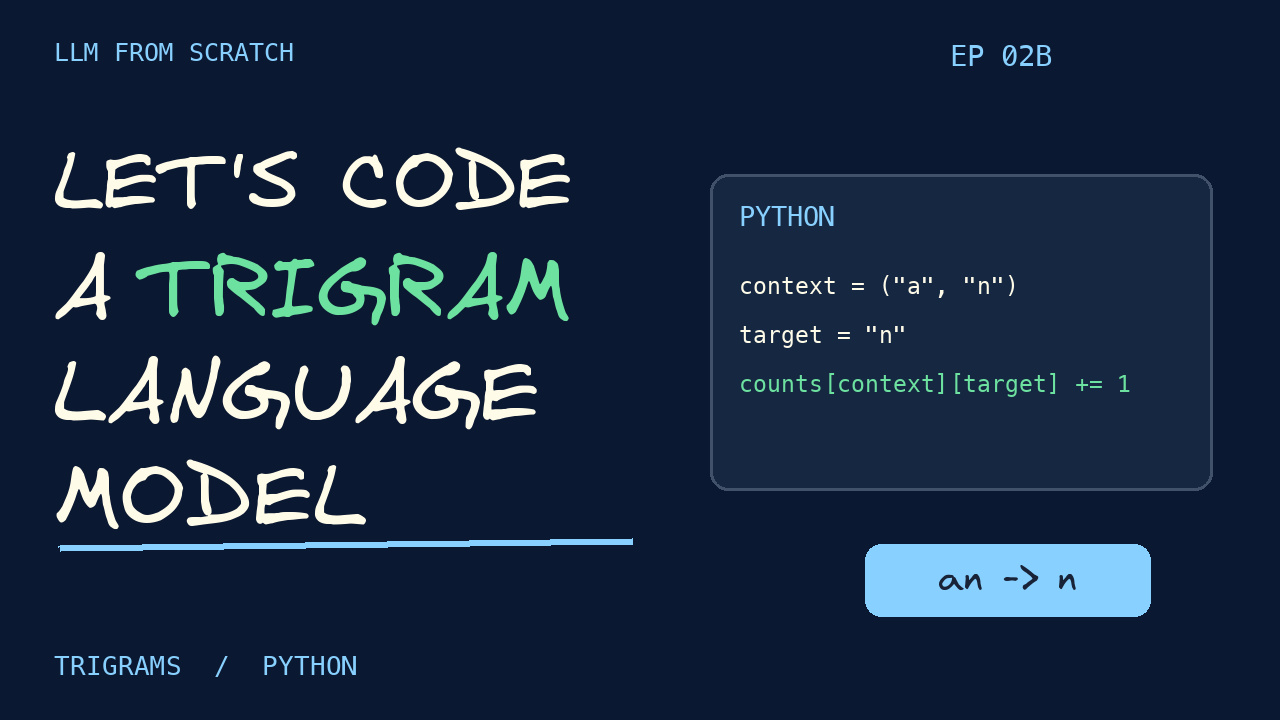
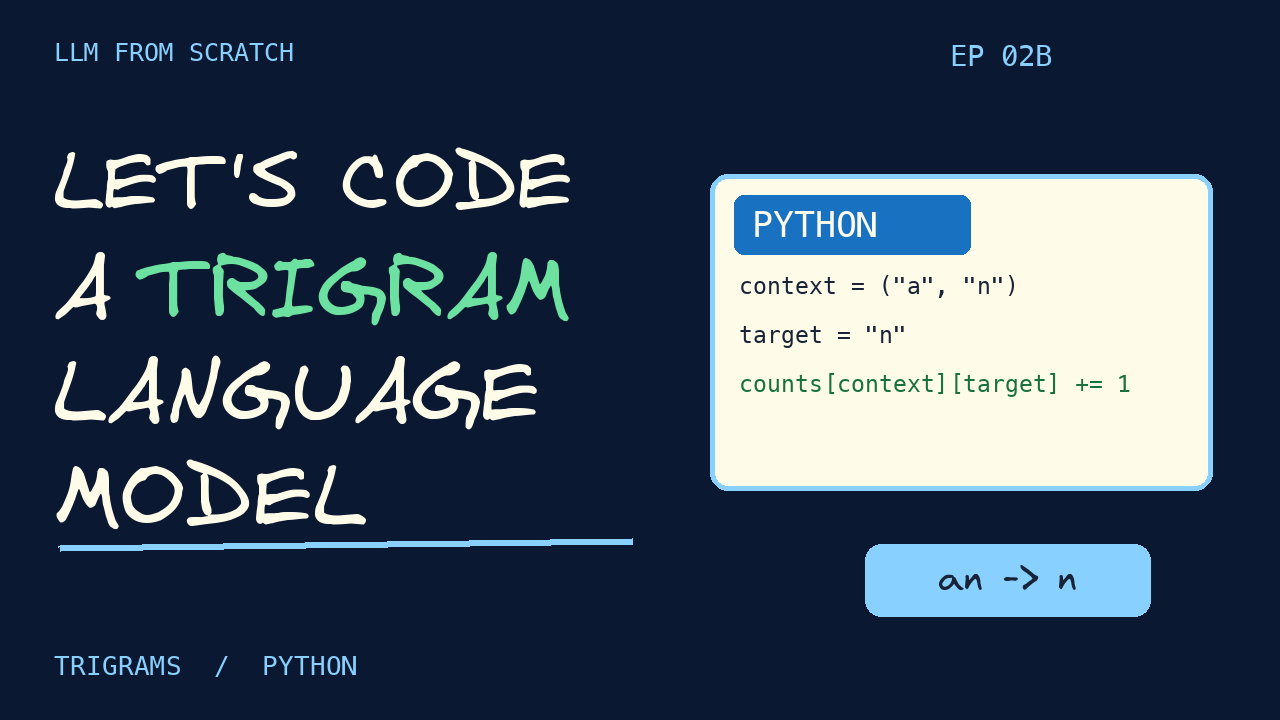
refine(ep02b): increase Python panel contrast

Changed region(s): [[0.5312, 0.2444, 0.9688, 0.7028]]

diff --git a/youtube/build_episode_02b_thumbnails.py b/youtube/build_episode_02b_thumbnails.py
@@ -51,9 +51,10 @@ text(d,(140,237),'TRIGRAM',88,GREEN)
 text(d,(54,341),'LANGUAGE',88)
 text(d,(54,445),'MODEL',88)
 line(d,[(60,548),(632,541)],BLUE,7)
-d.rounded_rectangle((710,174,1212,490),radius=18,fill='#162841',outline='#42516a',width=3)
-text(d,(739,200),'PYTHON',27,BLUE,font=MONO)
+d.rounded_rectangle((710,174,1212,490),radius=18,fill=CREAM,outline=BLUE,width=5)
+d.rounded_rectangle((734,195,970,254),radius=10,fill='#1971c2')
+text(d,(752,204),'PYTHON',35,CREAM,font=MONO)
 for y,s in [(272,'context = ("a", "n")'),(321,'target = "n"'),(370,'counts[context][target] += 1')]:
- text(d,(739,y),s,23,GREEN if y==370 else CREAM,font=MONO)
+ text(d,(739,y),s,23,'#16713c' if y==370 else INK,font=MONO)
 card(d,(865,544,1150,616),'an -> n',BLUE,39)
 save(im,'lets-code-trigram')
